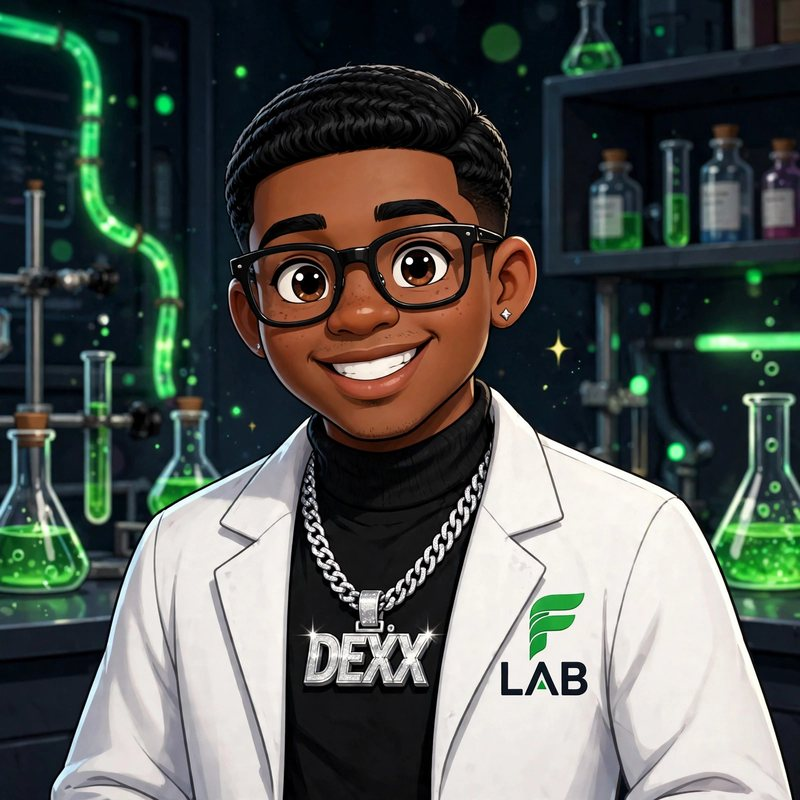
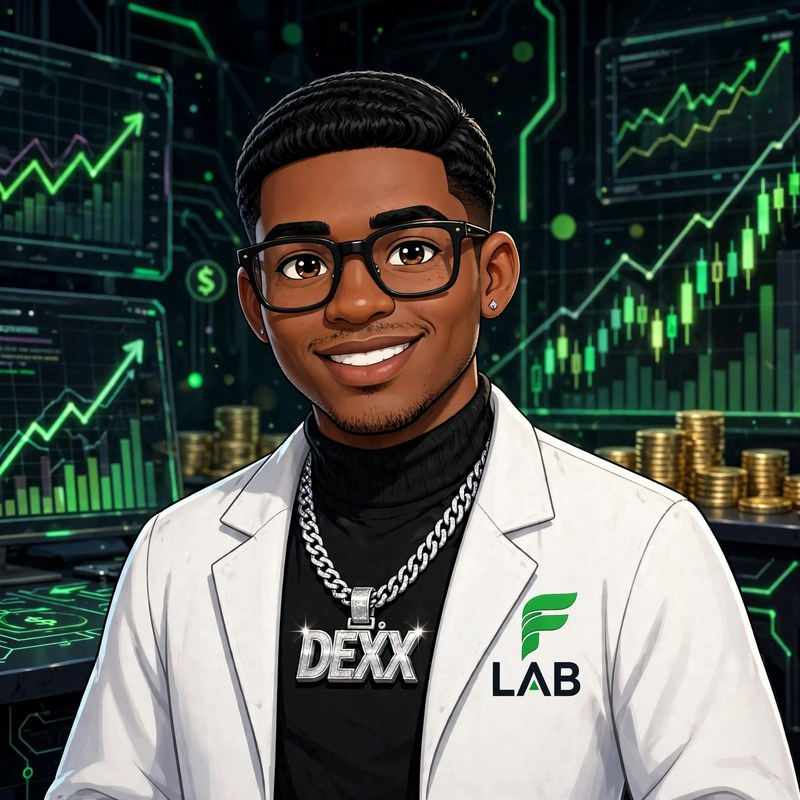
Add files via upload

diff --git a/index.html b/index.html
@@ -1,6 +1,6 @@
 <!DOCTYPE html>
 
-<html lang="en"><head><meta charset="utf-8"/><meta content="width=device-width,initial-scale=1,viewport-fit=cover" name="viewport"/><meta content="#050807" name="theme-color"/><meta content="Financial Lab powered by Dexx" name="description"/><link href="manifest.webmanifest" rel="manifest"/><link href="icon.svg" rel="icon"/><link href="icon-192.png" rel="apple-touch-icon"/><link href="styles.css?v=4.1.21.0" rel="stylesheet"/><meta name="apple-mobile-web-app-capable" content="yes"/><meta name="apple-mobile-web-app-status-bar-style" content="black-translucent"/><meta name="apple-mobile-web-app-title" content="Financial Lab"/><title>Financial Lab — Powered by Dexx</title><meta content="4.1.21.0" name="financial-lab-version"/><meta name="financial-lab-release" content="4.1.21.0-payday-truth-cash-flow-learning"/></head>
+<html lang="en"><head><meta charset="utf-8"/><meta content="width=device-width,initial-scale=1,viewport-fit=cover" name="viewport"/><meta content="#050807" name="theme-color"/><meta content="Financial Lab powered by Dexx" name="description"/><link href="manifest.webmanifest" rel="manifest"/><link href="icon.svg" rel="icon"/><link href="icon-192.png" rel="apple-touch-icon"/><link href="styles.css?v=4.1.21.5" rel="stylesheet"/><meta name="apple-mobile-web-app-capable" content="yes"/><meta name="apple-mobile-web-app-status-bar-style" content="black-translucent"/><meta name="apple-mobile-web-app-title" content="Financial Lab"/><title>Financial Lab — Powered by Dexx</title><meta content="4.1.21.5" name="financial-lab-version"/><meta name="financial-lab-release" content="4.1.21.5-payday-truth-cash-flow-learning"/></head>
 <body class="front-door-active">
 <div class="front-door" id="frontDoor">
   <div class="front-door-glow"></div>
@@ -54,7 +54,7 @@
 
   <section class="card lab-briefing-card" id="labBriefing">
     <div class="section-head">
-      <span>4.1.21.0 LAB BRIEFING</span>
+      <span>4.1.21.5 LAB BRIEFING</span>
       <b id="labBriefingStatus">Getting ready</b>
     </div>
     <h2 id="labBriefingTitle">Your money status at a glance.</h2>
@@ -78,7 +78,7 @@
   </section>
 
   <section class="card money-journey-card" id="moneyJourneyCard">
-    <div class="section-head"><span>4.1.21.0 DEXX MONEY JOURNEY</span><b id="moneyJourneyStatus">Checking next step</b></div>
+    <div class="section-head"><span>4.1.21.5 DEXX MONEY JOURNEY</span><b id="moneyJourneyStatus">Checking next step</b></div>
     <h2 id="moneyJourneyTitle">Your money cycle, step by step.</h2>
     <p class="manager-copy" id="moneyJourneyCopy">Dexx unlocks each step only when the step before it is real and complete.</p>
     <div class="money-journey-list" id="moneyJourneyList"></div>
@@ -91,7 +91,7 @@
   </section>
 
   <section class="card lab-readiness-card" id="labReadinessCard">
-    <div class="section-head"><span>4.1.21.0 LAB READINESS</span><b id="labReadinessStatus">Checking setup</b></div>
+    <div class="section-head"><span>4.1.21.5 LAB READINESS</span><b id="labReadinessStatus">Checking setup</b></div>
     <div class="lab-readiness-top"><div><strong id="labReadinessCount">0 of 6 areas complete</strong><span id="labReadinessAccuracy">Checking accuracy</span></div><b id="labReadinessNext">CONTINUE SETUP</b></div>
     <div class="setup-readiness-meter compact" aria-label="Financial Lab readiness"><i id="labReadinessBar"></i></div>
     <p id="labReadinessAccuracyText">Dexx is checking which financial details are known.</p>
@@ -101,7 +101,7 @@
 
   <section class="card health-score-card">
     <div class="section-head">
-      <span>4.1.21.0 FINANCIAL HEALTH SCORE</span>
+      <span>4.1.21.5 FINANCIAL HEALTH SCORE</span>
       <b id="healthScoreChange">Building baseline</b>
     </div>
 
@@ -138,7 +138,7 @@
 
   <section class="card action-center-card">
     <div class="section-head">
-      <span>4.1.21.0 DEXX ACTION CENTER</span>
+      <span>4.1.21.5 DEXX ACTION CENTER</span>
       <b id="actionCenterStatus">Ready</b>
     </div>
     <p class="manager-copy">Dexx turns your Financial Health Score and payday data into the next few money moves that matter most.</p>
@@ -171,7 +171,7 @@
 <section class="view" id="budget">
 <div class="page-title"><p>BUDGET LAB</p><h1>Dexx Payday Mode.</h1></div>
 <section class="card payday-command-card" id="paydayCommandCenter">
-  <div class="section-head"><span>4.1.21.0 PAYDAY COMMAND CENTER</span><b id="commandCenterStatus">Waiting for check</b></div>
+  <div class="section-head"><span>4.1.21.5 PAYDAY COMMAND CENTER</span><b id="commandCenterStatus">Waiting for check</b></div>
   <p class="manager-copy">Your whole payday in one view — what came in, what gets protected, what is moving forward, and what is truly safe to spend.</p>
   <div class="command-flow" aria-label="Payday money flow">
     <div class="command-flow-item income"><span id="commandPaycheckLabel">PAYCHECK</span><strong id="commandPaycheck">$0.00</strong><small id="commandCheckDate">No check entered</small></div>
@@ -196,7 +196,7 @@
     <button type="button" id="catchupSkipAll" class="catchup-skip-all">Mark all skipped</button>
   </section>
   <section class="weekly-runway" id="weeklyRunway" hidden>
-    <div class="runway-head"><div><span>4.1.21.0 WEEKLY RUNWAY</span><strong>Make TRUE Safe-to-Spend last until payday</strong></div><b id="runwayStatus">On pace</b></div>
+    <div class="runway-head"><div><span>4.1.21.5 WEEKLY RUNWAY</span><strong>Make TRUE Safe-to-Spend last until payday</strong></div><b id="runwayStatus">On pace</b></div>
     <div class="runway-grid">
       <article><span>DAYS LEFT</span><strong id="runwayDays">—</strong><small id="runwayDaysNote">Until next payday</small></article>
       <article><span>SAFE REMAINING</span><strong id="runwaySafe">$0.00</strong><small>After recorded spending</small></article>
@@ -220,7 +220,7 @@
     <p id="runwayReadout">Approve a payday plan to start your weekly runway.</p>
   </section>
   <section class="payday-execution" id="paydayExecutionMode" hidden>
-    <div class="execution-head"><div><span>4.1.21.0 PAYDAY EXECUTION MODE</span><strong>Approved plan → real-world moves</strong></div><b id="executionProgress">Execution ready</b></div>
+    <div class="execution-head"><div><span>4.1.21.5 PAYDAY EXECUTION MODE</span><strong>Approved plan → real-world moves</strong></div><b id="executionProgress">Execution ready</b></div>
     <p class="execution-intro">Dexx turns the approved plan into a short checklist. A future paycheck stays planned until it actually lands. Once you confirm payday, Dexx records the reserve and savings allocations and opens the real execution checklist.</p>
     <button class="execution-landing-button" id="confirmPaycheckLanded" type="button" hidden>PAYCHECK LANDS</button>
     <div class="paycheck-reconcile" id="paycheckReconcile" hidden>
@@ -331,7 +331,7 @@
 <div class="form-grid"><label>APR (%)<input id="managerDebtApr" inputmode="decimal" min="0" max="100" step="0.01" placeholder="24.99" type="number"/></label><label>Account type<select id="managerDebtType"><option value="credit-card">Credit card</option><option value="loan">Loan</option><option value="medical">Medical</option><option value="other">Other</option></select></label></div>
 <div class="manager-actions"><button class="primary" id="saveManagedDebt" type="submit">SAVE DEBT ACCOUNT</button><button class="secondary" hidden id="cancelDebtEdit" type="button">CANCEL EDIT</button></div><p class="status" id="debtManagerStatus"></p></form>
 <section class="card"><div class="section-head"><span>YOUR DEBTS</span><b>Extra-payment target updates automatically</b></div><div class="managed-debts" id="managedDebts"></div></section>
-<section class="card" id="debtOutlookCard"><div class="section-head"><span>4.1.21.0 PAYOFF OUTLOOK</span><b id="debtOutlookStatus">Checking</b></div><p class="manager-copy">Estimates from current balances, APRs, and minimums — not guarantees. Extra payments use your per-check debt goal.</p><div id="debtOutlookBody"></div></section></section>
+<section class="card" id="debtOutlookCard"><div class="section-head"><span>4.1.21.5 PAYOFF OUTLOOK</span><b id="debtOutlookStatus">Checking</b></div><p class="manager-copy">Estimates from current balances, APRs, and minimums — not guarantees. Extra payments use your per-check debt goal.</p><div id="debtOutlookBody"></div></section></section>
 <section class="view" id="savings"><div class="page-title"><p>SAVINGS LAB</p><h1>Turn goals into experiments.</h1></div>
 <section class="card savings-overview"><div class="section-head"><span>4.0.8 SAVINGS INTELLIGENCE</span><b id="savingsGoalCount">0 goals saved</b></div><p class="manager-copy">Create as many savings goals as you need. Dexx will direct the savings portion of approved payday plans toward your active goals after bills and reserves are protected.</p>
 <div class="savings-kpis"><div><span>TOTAL SAVED</span><strong id="savingsSavedTotal">$0.00</strong></div><div><span>GOAL TARGETS</span><strong id="savingsTargetTotal">$0.00</strong></div><div><span>DEXX TARGET</span><strong id="savingsDexxTarget">Add a goal</strong></div></div>
@@ -342,7 +342,7 @@
 <div class="form-grid"><label>Priority<select id="savingsGoalPriority"><option value="high">High</option><option value="medium" selected>Medium</option><option value="low">Low</option></select></label><label>Goal type<select id="savingsGoalCategory"><option value="emergency">Emergency fund</option><option value="car">Car / repairs</option><option value="home">Home</option><option value="travel">Travel</option><option value="purchase">Purchase</option><option value="general" selected>General</option></select></label></div>
 <div class="manager-actions"><button class="primary" id="saveSavingsGoal" type="submit">SAVE SAVINGS GOAL</button><button class="secondary" hidden id="cancelSavingsEdit" type="button">CANCEL EDIT</button></div><p class="status" id="savingsGoalStatus"></p></form>
 <section class="card"><div class="section-head"><span>YOUR SAVINGS GOALS</span><b>Payday contributions update on approval</b></div><div class="savings-goals-list" id="savingsGoalsList"></div></section>
-<section class="card" id="savingsOutlookCard"><div class="section-head"><span>4.1.21.0 SAVINGS MILESTONES</span><b id="savingsOutlookStatus">Checking</b></div><p class="manager-copy">Projected finish dates use your per-check savings amount. Set it in Payday Mode to see timelines.</p><div id="savingsOutlookBody"></div></section></section>
+<section class="card" id="savingsOutlookCard"><div class="section-head"><span>4.1.21.5 SAVINGS MILESTONES</span><b id="savingsOutlookStatus">Checking</b></div><p class="manager-copy">Projected finish dates use your per-check savings amount. Set it in Payday Mode to see timelines.</p><div id="savingsOutlookBody"></div></section></section>
 
 <section class="view" id="expense">
   <div class="page-title"><p>SPENDING LAB</p><h1>Expense Manager.</h1></div>
@@ -481,7 +481,7 @@
   <div class="page-title"><p>CALENDAR LAB</p><h1>See what’s coming.</h1></div>
 
   <section class="card money-date-bridge" id="moneyDateBridge">
-    <div class="section-head"><span>4.1.21.0 MONEY DATES BRIDGE</span><b id="moneyDateBridgeStatus">Checking journey</b></div>
+    <div class="section-head"><span>4.1.21.5 MONEY DATES BRIDGE</span><b id="moneyDateBridgeStatus">Checking journey</b></div>
     <h2 id="moneyDateBridgeTitle">Your next money date, connected to the plan.</h2>
     <p class="manager-copy" id="moneyDateBridgeCopy">Dexx connects the calendar to the step that is currently controlling your money cycle.</p>
     <div class="money-date-bridge-grid">
@@ -510,7 +510,7 @@
   </section>
 
   <section class="card smart-bills-card" id="smartBillsCard">
-    <div class="section-head"><span>4.1.21.0 SMART BILL CALENDAR</span><b id="smartBillsStatus">Checking bills</b></div>
+    <div class="section-head"><span>4.1.21.5 SMART BILL CALENDAR</span><b id="smartBillsStatus">Checking bills</b></div>
     <p class="manager-copy" id="smartBillsSummary">Every bill gets a clear status and a place in your paycheck plan.</p>
     <div class="pressure-strip" id="pressureStrip" aria-label="Upcoming bill pressure per payday"></div>
     <div id="smartBillsGroups"></div>
@@ -614,7 +614,7 @@
   <div class="page-title"><p>START HERE</p><h1>Build your Financial Lab.</h1></div>
 
   <section class="card setup-hero-card">
-    <div class="section-head"><span>4.1.21.0 GUIDED LAB SETUP</span><b id="setupHeroStatus">Getting ready</b></div>
+    <div class="section-head"><span>4.1.21.5 GUIDED LAB SETUP</span><b id="setupHeroStatus">Getting ready</b></div>
     <h2>Tell Dexx about your money first.</h2>
     <p class="manager-copy">Financial Lab can only build a useful plan from the information you give it. Start with the essentials, then add bills, debt, savings, and spending now or finish those pieces later.</p>
     <div class="setup-readiness-meter" aria-label="Lab setup completeness"><i id="setupReadinessBar"></i></div>
@@ -679,7 +679,7 @@
 <section class="view" id="dexx"><div class="dexx-header"><button data-go="laboratory">←</button><div><h1>DEXX</h1><p>Your Financial Scientist</p></div><img alt="" aria-hidden="true" class="dexx-chat-image" onerror="this.onerror=null;this.style.display='none'" src="dexx-character-clean.jpg"/></div><div class="chat"><div class="bubble" id="dexxReply">Hey Rob! 👋 I’m Dexx. How can I help you today?</div><button data-question="score">How can I improve my score? <span>›</span></button><button data-question="spending">Analyze my spending <span>›</span></button><button data-question="challenge">Give me a money challenge <span>›</span></button><button data-question="saving">Any tips for saving more? <span>›</span></button><form id="chatForm"><input id="chatInput" placeholder="Ask Dexx anything..."/><button type="submit">➤</button></form></div></section>
 </main>
 <nav class="bottom-nav"><button class="active" data-go="laboratory"><b>⚗</b><span>Laboratory</span></button><button data-go="budget"><b>▣</b><span>Budget Lab</span></button><button data-go="credit"><b>◇</b><span>Credit Lab</span></button><button data-go="savings"><b>▤</b><span>Savings Lab</span></button><button data-go="more"><b>•••</b><span>More</span></button></nav>
-</div><script src="app.js?v=4.1.21.0"></script>
+</div><script src="app.js?v=4.1.21.5"></script>
 <script>
 (function(){
   function wireBuildButton(){
@@ -710,7 +710,7 @@
   // 4.1.6.1: keep reliable PWA updates while polishing Calendar amount display.
   if('serviceWorker' in navigator){
     window.addEventListener('load',function(){
-      navigator.serviceWorker.register('./service-worker.js?v=4.1.21.0',{updateViaCache:'none'}).then(function(reg){
+      navigator.serviceWorker.register('./service-worker.js?v=4.1.21.5',{updateViaCache:'none'}).then(function(reg){
         reg.update().catch(function(){});
         setInterval(function(){ reg.update().catch(function(){}); }, 60000);
       }).catch(function(err){console.warn('Service worker registration failed',err)});

diff --git a/service-worker.js b/service-worker.js
@@ -1,6 +1,6 @@
-// Financial Lab 4.1.21.0 — Payday Continuity
-const CACHE='financial-lab-v4.1.21.0';
-const CORE=['./','./index.html','./styles.css?v=4.1.21.0','./app.js?v=4.1.21.0','./manifest.webmanifest','./icon.svg','./icon-192.png','./icon-512.png','./logo-full.svg'];
+// Financial Lab 4.1.21.5 — Payday Continuity
+const CACHE='financial-lab-v4.1.21.5';
+const CORE=['./','./index.html','./styles.css?v=4.1.21.5','./app.js?v=4.1.21.5','./manifest.webmanifest','./icon.svg','./icon-192.png','./icon-512.png','./logo-full.svg'];
 
 self.addEventListener('install',event=>{
   event.waitUntil(caches.open(CACHE).then(cache=>cache.addAll(CORE)).then(()=>self.skipWaiting()));

diff --git a/RELEASE_NOTES_4.1.21.5.md b/RELEASE_NOTES_4.1.21.5.md
@@ -1,0 +1,19 @@
+# Financial Lab 4.1.21.5 — New Dexx
+
+Artwork-only release on top of 4.1.21.4. No code or logic changes.
+
+## What changed
+
+- **New Dexx character art** (`dexx-character-clean.jpg`): Robert asked for
+  Dexx to look older — mid-20s instead of a teenager — and for the background
+  to be Financial Lab themed rather than a science laboratory. The new art
+  keeps the same character (glasses, waves haircut, white lab coat, DEXX
+  chain, LAB logo, cartoon style) with an adult face and build, against a
+  dark green financial backdrop of rising charts and coin stacks.
+- Robert approved this as the Dexx going forward (poster + app).
+
+## Verification
+
+- Full suite via `npm test`: 68/68 pass (continuity, bills, bundle, boot).
+- Release built with `tools/build-release.sh`; service worker cache stamped
+  `financial-lab-v4.1.21.5`.
